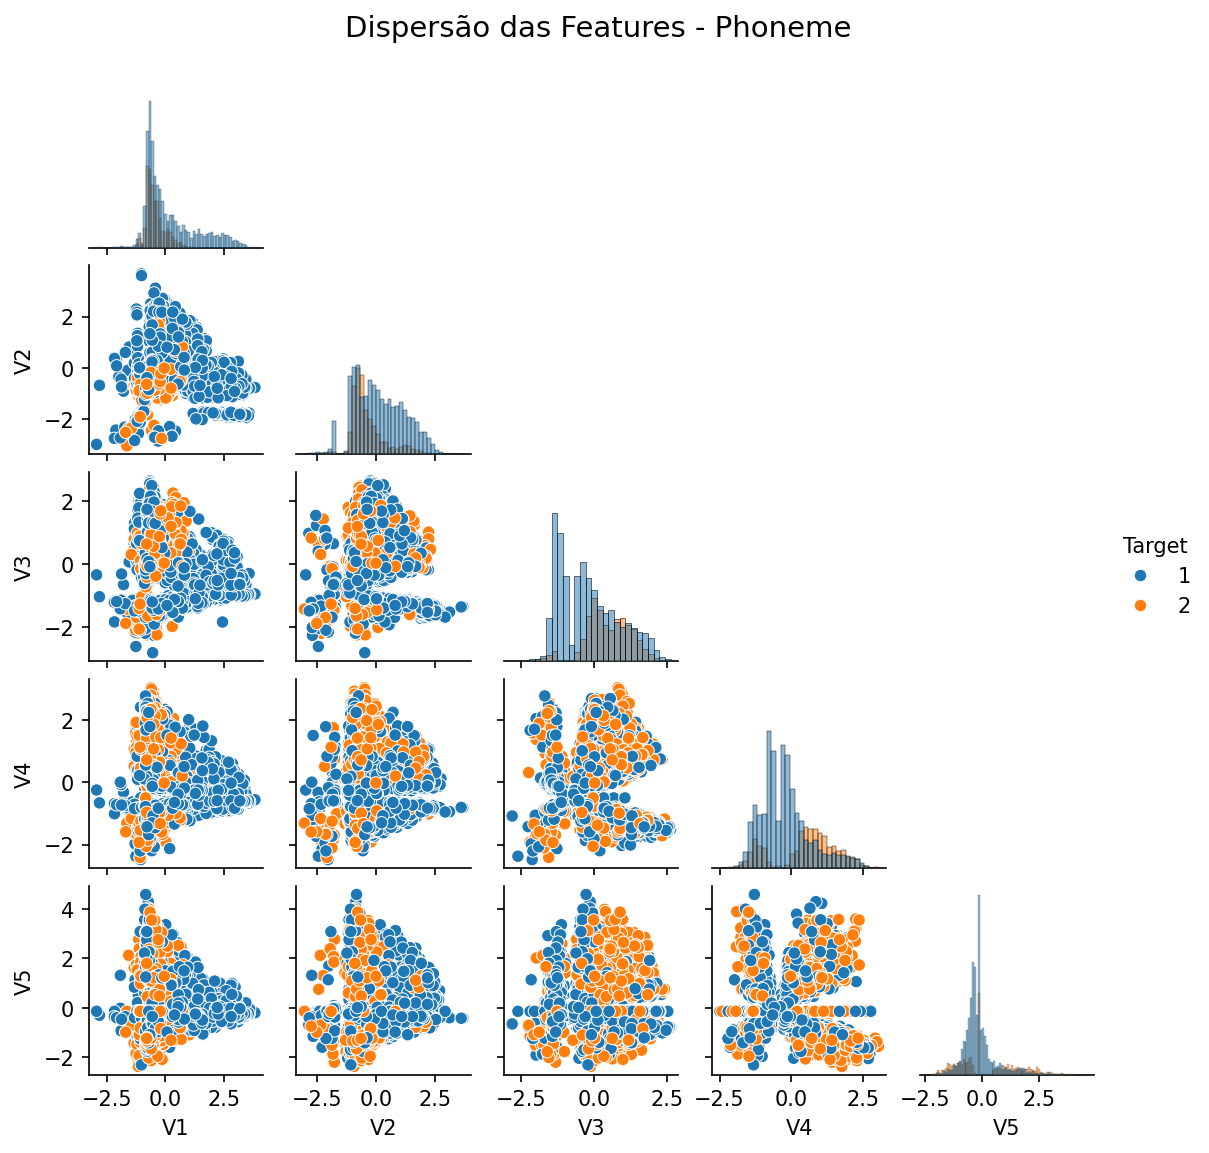
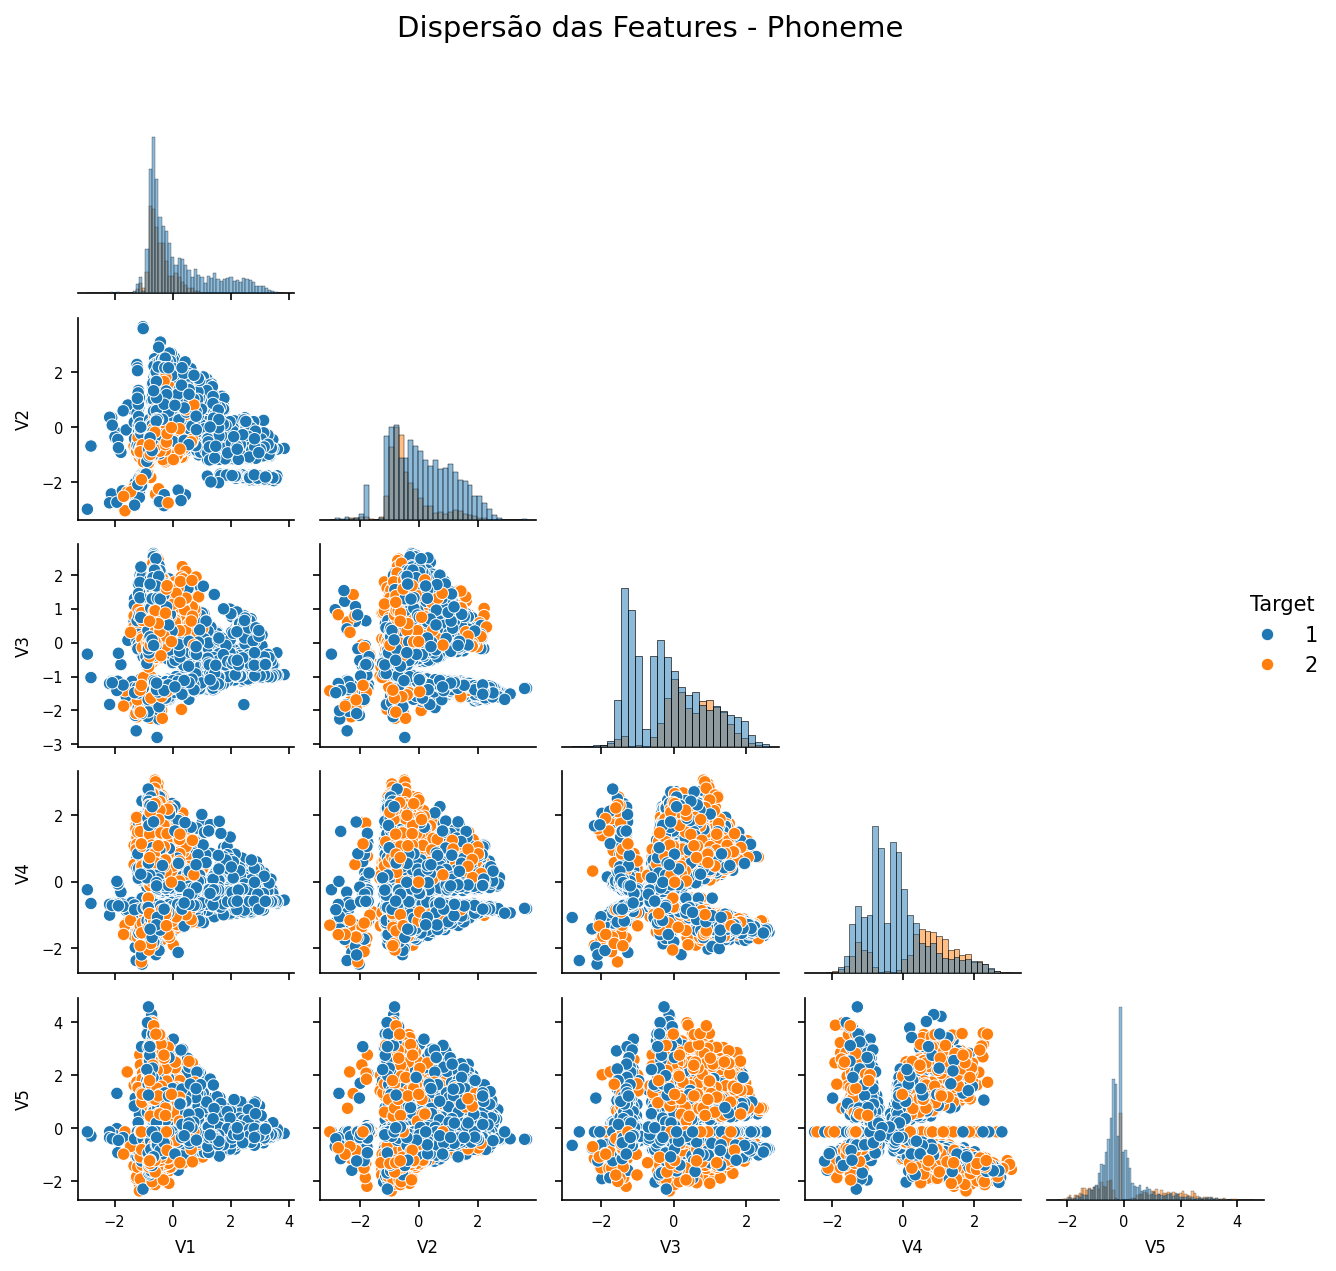
Update README with detailed metrics explanation and enhance script comments for clarity. Adjust output formatting for consistency in dataset examples.

Changed region(s): [[0.0, 0.0937, 0.9487, 0.9991], [0.2754, 0.0, 0.7039, 0.0312], [0.9181, 0.4683, 1.0, 0.5308]]

diff --git a/script.py b/script.py
@@ -1,47 +1,46 @@
-import sys
-import time
-import warnings
-from pathlib import Path
+import sys                # Para redirecionar a saída para output/output.txt
+import time               # Para medir o tempo de treinamento e teste
+import warnings           # Para capturar warnings de convergência
+from pathlib import Path  # Para manipular caminhos de arquivos
 
 import pandas as pd
 import numpy as np
 import matplotlib
-matplotlib.use("Agg")
+matplotlib.use("Agg")                             # Para plotar gráficos em arquivos, sem mostrar na tela
 import matplotlib.pyplot as plt
 import seaborn as sns
-from sklearn.exceptions import ConvergenceWarning
+from sklearn.exceptions import ConvergenceWarning # Para capturar warnings de convergência
 
-from sklearn.datasets import load_wine, fetch_openml
-from sklearn.model_selection import train_test_split, ParameterGrid
-from sklearn.preprocessing import StandardScaler
-from sklearn.neural_network import MLPClassifier
-from sklearn.neighbors import KNeighborsClassifier
+from sklearn.datasets import load_wine, fetch_openml                 # Para carregar os datasets
+from sklearn.model_selection import train_test_split, ParameterGrid  # Para dividir os dados em treino e teste, e para gerar as combinações de hiperparâmetros
+from sklearn.preprocessing import StandardScaler                     # Para padronizar os dados
+from sklearn.neural_network import MLPClassifier                     # Para criar o modelo de Rede Neural
+from sklearn.neighbors import KNeighborsClassifier                   # Para criar o modelo de k-NN
 from sklearn.metrics import accuracy_score, precision_score, recall_score, f1_score, confusion_matrix
 
-# Suprime os avisos de não-convergência
-#warnings.filterwarnings("ignore", category=ConvergenceWarning)
+seed = 42 # Para garantir a repetibilidade dos resultados
 
 def executar_experimento(nome_base, X, y, modelo_base, grid_parametros):
     """Divide os dados, aplica padronização e testa todas as combinações de hiperparâmetros."""
 
     # Divisão 70% Treino / 30% Teste. O random_state é a seed que aleatoriza o dataset
-    X_train, X_test, y_train, y_test = train_test_split(X, y, test_size=0.3, random_state=42, stratify=y)
+    X_train, X_test, y_train, y_test = train_test_split(X, y, test_size=0.3, random_state=seed, stratify=y)
 
     # Padronização (Obrigatório para MLP e k-NN)
     scaler = StandardScaler()
-    X_train_scaled = scaler.fit_transform(X_train)
-    X_test_scaled = scaler.transform(X_test)
+    X_train_scaled = scaler.fit_transform(X_train) # fit: calcula média e desvio padrão nos dados de treino; transform: padroniza os dados para ter média=0 e desvio padrão=1
+    X_test_scaled = scaler.transform(X_test) # transforma os dados de teste usando os parâmetros calculados no treino
 
-    resultados = []
-    matrizes = {}
+    resultados = [] # Lista para armazenar os resultados de cada combinação de hiperparâmetros
+    matrizes = {}   # Dicionário para armazenar as matrizes de confusão de cada combinação de hiperparâmetros
 
-    combinacoes = list(ParameterGrid(grid_parametros))
+    combinacoes = list(ParameterGrid(grid_parametros)) # Gera todas as combinações de hiperparâmetros
 
     for idx, params in enumerate(combinacoes):
         modelo = modelo_base.set_params(**params)
         nome_config = f"Config_{idx+1}"
 
-        # Medição do tempo de Treinamento
+        # Mede o tempo de Treinamento e diferencia se o modelo convergiu ou não
         with warnings.catch_warnings(record=True) as avisos:
             warnings.simplefilter("always", ConvergenceWarning)
             t_inicio_treino = time.time()
@@ -53,12 +52,12 @@ def executar_experimento(nome_base, X, y, modelo_base, grid_parametros):
         if not convergiu:
             print(f"  Não convergiu: {nome_base} {nome_config} {params} (n_iter={n_iter})")
 
-        # Medição do tempo de Classificação (Inferência)
+        # Mede o tempo de Classificação (Inferência)
         t_inicio_teste = time.time()
         y_pred = modelo.predict(X_test_scaled)
         t_teste = time.time() - t_inicio_teste
 
-        # Cálculo de Métricas (average='macro' atende bases multiclasse e binárias)
+        # Calcula as métricas (average='macro' atende bases multiclasse e binárias)
         acc = accuracy_score(y_test, y_pred)
         prec = precision_score(y_test, y_pred, average='macro', zero_division=0)
         rec = recall_score(y_test, y_pred, average='macro')
@@ -97,7 +96,7 @@ def plotar_matriz_confusao(cm, params, titulo, caminho):
 
 def _nome_feature_em_linhas(nome, largura=16):
     """Quebra nomes longos de features para caber nos eixos do pairplot."""
-    texto = nome.replace("_", " ").replace("/", "/ ")
+    texto = nome.replace("_", " ")
     palavras = texto.split()
     linhas = []
     atual = ""
@@ -152,32 +151,33 @@ q_exemplos = 5
 wine = load_wine()
 X_wine = pd.DataFrame(wine.data, columns=wine.feature_names)
 y_wine = wine.target
-print("\n--- Exemplos Aleatórios do dataset Wine ---")
-print(X_wine.assign(target=y_wine).sample(q_exemplos))
+print("\n--- Exemplos aleatórios do dataset Wine ---")
+print(X_wine.assign(target=y_wine).sample(q_exemplos, random_state=seed))
 
 # Base Phoneme (OpenML)
 phoneme = fetch_openml(name='phoneme', version=1, as_frame=True, parser='auto')
 X_phoneme = phoneme.data
 y_phoneme = phoneme.target
-print("\n--- Exemplos Aleatórios do dataset Phoneme ---")
-print(X_phoneme.assign(target=y_phoneme).sample(q_exemplos))
+print("\n--- Exemplos aleatórios do dataset Phoneme ---")
+print(X_phoneme.assign(target=y_phoneme).sample(q_exemplos, random_state=seed))
 
 # ==========================================
 # 2. DEFINIÇÃO DOS HIPERPARÂMETROS
 # ==========================================
-# Rede Neural: max_iter elevado para permitir convergência, alpha para evitar overfitting básico
-mlp_base = MLPClassifier(max_iter=1000, random_state=42)
+# Rede Neural
+mlp_base = MLPClassifier(max_iter=1000, random_state=seed)
 mlp_grid = {
-    'hidden_layer_sizes': [(100,), (50, 50)], # 1 camada de 100 vs 2 camadas de 50
-    'activation': ['relu', 'tanh', 'logistic'],
-    'solver': ['adam', 'lbfgs', 'sgd']
+    'hidden_layer_sizes': [(100,), (50, 50)],   # 1 camada de 100 neurônios vs 2 camadas de 50 neurônios
+    'activation': ['relu', 'tanh', 'logistic'], # Função de ativação para os neurônios
+    'solver': ['adam', 'lbfgs', 'sgd']          # Algoritmo de otimização para atualizar os pesos
 }
 
+# k-NN
 knn_base = KNeighborsClassifier()
 knn_grid = {
-    'n_neighbors': [3, 5, 7, 11],
-    'weights': ['uniform', 'distance'],
-    'metric': ['euclidean', 'manhattan']
+    'n_neighbors': [3, 5, 7, 11],        # Número de vizinhos mais próximos a considerar
+    'weights': ['uniform', 'distance'],  # Peso dos vizinhos (uniforme ou recompensar os mais próximos)
+    'metric': ['euclidean', 'manhattan'] # Como medir a distância entre os vizinhos
 }
 
 # ==========================================
@@ -239,9 +239,7 @@ res_phoneme_todos = pd.concat([res_phoneme_mlp, res_phoneme_knn], ignore_index=T
 melhor_config_phoneme = res_phoneme_todos.loc[res_phoneme_todos['F1-Score'].idxmax()]
 id_melhor_p = melhor_config_phoneme['Configuração']
 base_melhor_p = melhor_config_phoneme['Base']
-
-# Correção lógica para buscar a matriz no dicionário correto
-cm_dict_p = cm_phoneme_mlp if "MLP" in base_melhor_p else cm_phoneme_knn
+cm_dict_p = cm_phoneme_mlp if "MLP" in base_melhor_p else cm_phoneme_knn # Busca no dict certo
 plotar_matriz_confusao(
     cm=cm_dict_p[id_melhor_p]['cm'],
     params=cm_dict_p[id_melhor_p]['params'],

diff --git a/README.md b/README.md
@@ -1,5 +1,52 @@
 # Observations
 
+
+For \(K\) classes, `confusion_matrix` is a \(K \times K\) table: row = true class, column = predicted class.
+
+For **one class** \(c\) (one-vs-rest):
+
+- \(\mathrm{TP}_c\): predicted \(c\), is \(c\)
+- \(\mathrm{FP}_c\): predicted \(c\), is not \(c\)
+- \(\mathrm{FN}_c\): is \(c\), predicted something else
+- \(\mathrm{TN}_c\): not \(c\), not predicted \(c\)
+
+Then:
+
+**Accuracy** (global, not macro):
+
+\[
+\mathrm{Acc} = \frac{\sum_c \mathrm{TP}_c}{N} = \frac{\text{correct predictions}}{\text{all samples}}
+\]
+
+In the binary 2×2 view that is \((\mathrm{TP}+\mathrm{TN})/(\mathrm{TP}+\mathrm{TN}+\mathrm{FP}+\mathrm{FN})\).
+
+**Precision / recall / F1** use `average='macro'`: compute per class, then **unweighted mean**. That works for Wine (3 classes) and Phoneme (2 classes).
+
+\[
+P_c = \frac{\mathrm{TP}_c}{\mathrm{TP}_c + \mathrm{FP}_c},\quad
+R_c = \frac{\mathrm{TP}_c}{\mathrm{TP}_c + \mathrm{FN}_c},\quad
+F1_c = \frac{2 P_c R_c}{P_c + R_c}
+\]
+
+\[
+P_{\mathrm{macro}} = \frac{1}{K}\sum_c P_c,\quad
+R_{\mathrm{macro}} = \frac{1}{K}\sum_c R_c,\quad
+F1_{\mathrm{macro}} = \frac{1}{K}\sum_c F1_c
+\]
+
+`zero_division=0` on precision: if a class is never predicted, \(P_c = 0\) instead of an error. That is why Wine Config_18 can show precision \(\approx 0.13\) and recall \(1/3\): it basically predicts one class.
+
+Macro F1 is **not** \(2PR/(P+R)\) of the already-averaged P and R; sklearn averages the per-class F1s.
+
+> De fato, cada máquina deveria resultar em métricas de precisão, recall e F1 para **cada** classe (no Wine, que tem 3 classes, seriam 9 métricas por máquina; no Phoneme, seriam 6 métricas por máquina), então o script faz uma média de tudo para poupar espaço.
+> Chequei com a `matriz_confusão_phoneme.pgn`, correspondente à entrada de Id 61 na tabela `output.txt` e obtive:
+> \(F1_0 = 0.9241320188598371\)
+> \(F1_1 = 0.8057080131723381\)
+> \(F1_{macro} = (F1_0 + F1_1) / 2 = 0.8649200160160876\)
+> Note que \(F1_{macro}\) deu igual ao F1-Score da tabela.
+
+---
+
 **Wine:** target (0, 1, 2) corresponds to (Barolo, Grignolino, Barbera)
 
 **Phoneme:** target (1, 2) corresponds to (nasal, oral)
